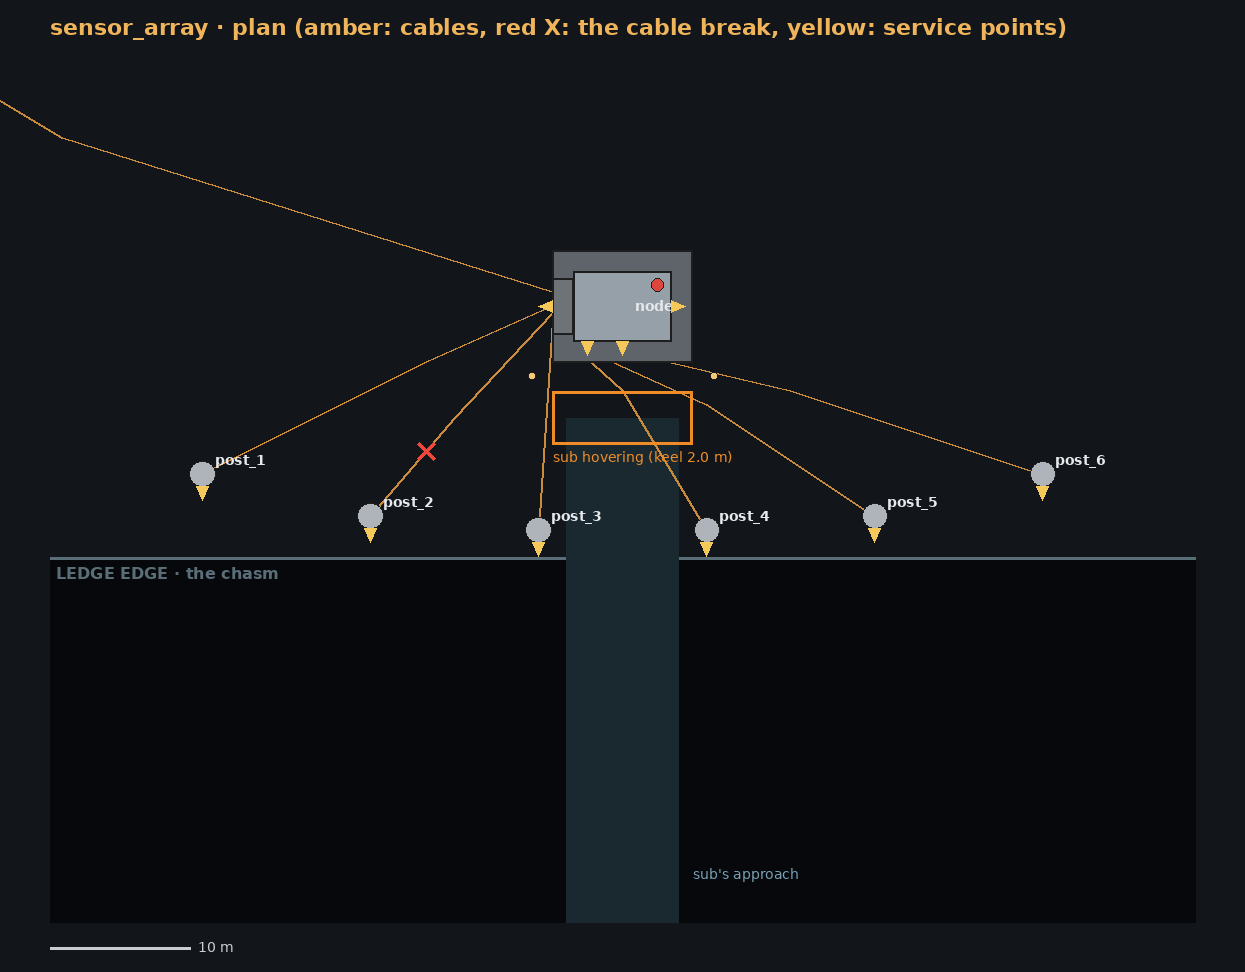
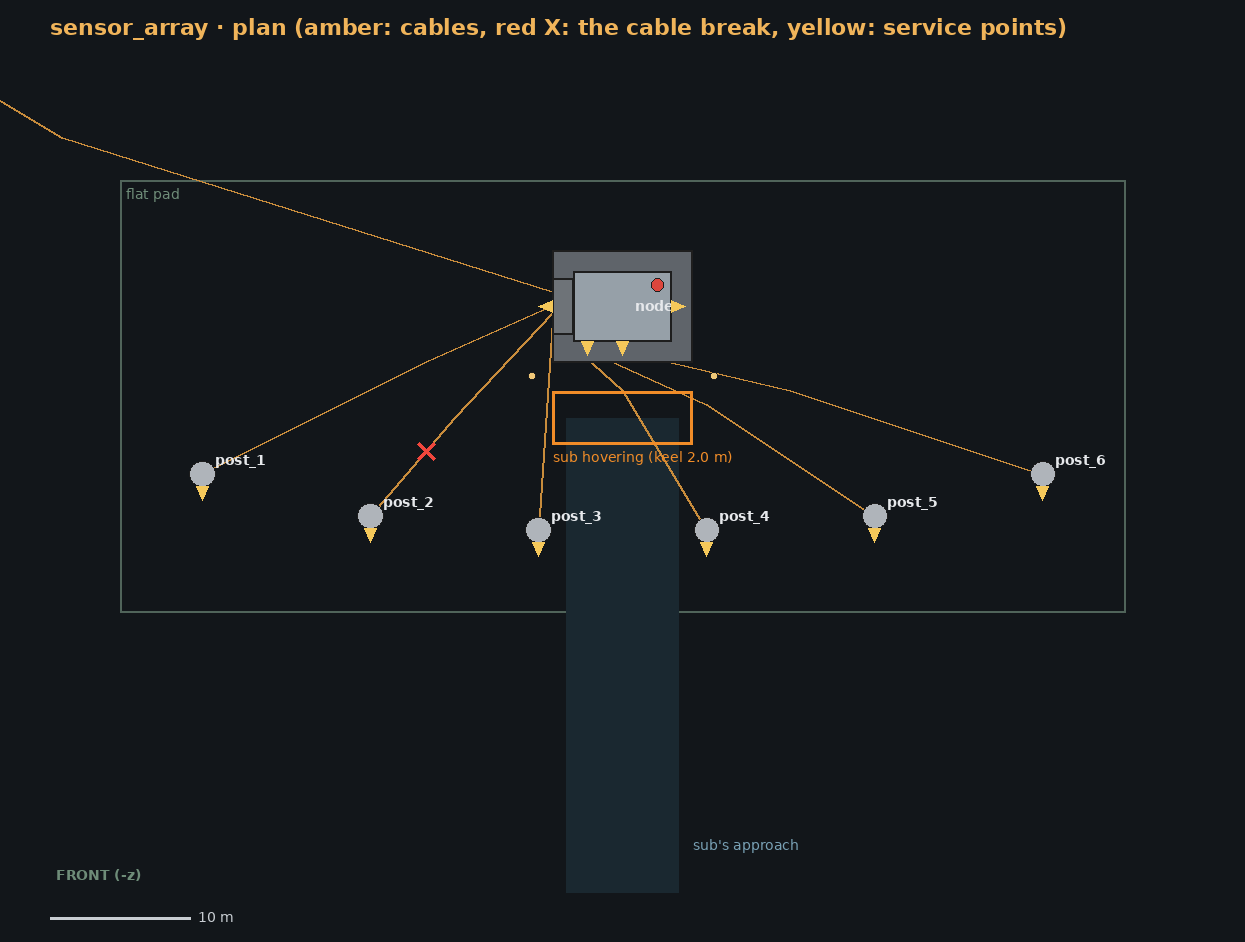
Sensor array: decoupled from the chasm
The layout now has its own frame, centred on the node with its front toward -z,
and the checker reports the flat pad it needs (72 x 31 m) instead of assuming a
ledge; a ledge stays optional for sites drawn at a chasm. A dive places an
unmanned site wherever a pad fits (Tristan). Refs #927

Claude-Session: https://claude.ai/code/session_01AtmEDwwhLDi2UXGBvKDeBg

diff --git a/tools/facility_plan/site.py b/tools/facility_plan/site.py
@@ -12,8 +12,10 @@ works, and the sub's hover point and approach. Writes into out_dir (default: `re
 blockout.py). Exits non-zero when a check fails.
 
 Checks, for play: every service point sits on its element, at a diver's working height, with clear water in front;
-sensor posts are spread as an array; every cable joins its ends and is not too long; the approach corridor from the
-chasm is clear; the sub hovering at its work point keeps water under its keel; everything stands on the shelf.
+sensor posts are spread as an array; every cable joins its ends and is not too long; the approach corridor is clear;
+the sub hovering at its work point keeps water under its keel. A site is not tied to terrain: the report gives the
+flat pad it needs (`site.pad_margin_m` beyond its elements). If the program gives `site.ledge_edge_z` (a site drawn
+at a chasm), everything must stand on the shelf.
 """
 from __future__ import annotations
 
@@ -114,10 +116,16 @@ class Site:
         c = self.c
         lo, hi = c.get("service_height_m", [0.6, 1.8])
         room = c.get("service_room_m", 1.5)
-        edge = self.p["site"].get("ledge_edge_z", 0.0)
-        for e in self.els.values():
-            x0, x1, z0, z1 = e.bounds()
-            self.check(z0 >= edge - TOL or "overhang" in e.tags, f"{e.id} stands on the shelf (z from {z0:.1f})")
+        edge = self.p["site"].get("ledge_edge_z")
+        if edge is not None:
+            for e in self.els.values():
+                x0, x1, z0, z1 = e.bounds()
+                self.check(z0 >= edge - TOL or "overhang" in e.tags, f"{e.id} stands on the shelf (z from {z0:.1f})")
+        b = [e.bounds() for e in self.els.values()]
+        mg = self.p["site"].get("pad_margin_m", 5.0)
+        self.pad = (min(v[0] for v in b) - mg, max(v[1] for v in b) + mg, min(v[2] for v in b) - mg, max(v[3] for v in b) + mg)
+        self.check(True, f"needs a flat pad {self.pad[1] - self.pad[0]:.0f} x {self.pad[3] - self.pad[2]:.0f} m "
+                         f"(x {self.pad[0]:.0f}..{self.pad[1]:.0f}, z {self.pad[2]:.0f}..{self.pad[3]:.0f}), front toward -z")
         for s in self.p.get("service_points", []):
             el = self.els[s["element"]]
             at = tuple(s["at"])
@@ -192,17 +200,22 @@ class Site:
     def draw_plan(self, out: Path) -> None:
         pts = [v for e in self.els.values() for v in (e.bounds()[0:2])], [v for e in self.els.values() for v in e.bounds()[2:4]]
         xs = pts[0] + [p[0] for cb in self.p["cables"] for p in cb["path"] if cb["to"] != "offsite"]
-        zs = pts[1] + [p[1] for cb in self.p["cables"] for p in cb["path"] if cb["to"] != "offsite"] + [-20.0]
+        zs = pts[1] + [p[1] for cb in self.p["cables"] for p in cb["path"] if cb["to"] != "offsite"] + [self.pad[2] - 14]
         x0, x1, z0, z1 = min(xs) - 10, max(xs) + 10, min(zs) - 6, max(zs) + 10
         s, m = 14.0, 50
         W, H = int((x1 - x0) * s) + 2 * m, int((z1 - z0) * s) + 2 * m + 60
         img = Image.new("RGB", (W, H), (18, 22, 26))
         d = ImageDraw.Draw(img)
         P = lambda x, z: (m + (x - x0) * s, 60 + m + (z1 - z) * s)
-        edge = self.p["site"].get("ledge_edge_z", 0.0)
-        d.rectangle([P(x0, edge), P(x1, z0)], fill=(6, 8, 12))
-        d.line([P(x0, edge), P(x1, edge)], fill=(90, 110, 120), width=3)
-        d.text((P(x0, edge)[0] + 6, P(x0, edge)[1] + 6), "LEDGE EDGE · the chasm", fill=(90, 110, 120), font=font(16, True))
+        edge = self.p["site"].get("ledge_edge_z")
+        if edge is not None:
+            d.rectangle([P(x0, edge), P(x1, z0)], fill=(6, 8, 12))
+            d.line([P(x0, edge), P(x1, edge)], fill=(90, 110, 120), width=3)
+            d.text((P(x0, edge)[0] + 6, P(x0, edge)[1] + 6), "LEDGE EDGE · the chasm", fill=(90, 110, 120), font=font(16, True))
+        px0, px1, pz0, pz1 = self.pad
+        d.rectangle([P(px0, pz1), P(px1, pz0)], outline=(80, 100, 90), width=2)
+        d.text((P(px0, pz1)[0] + 6, P(px0, pz1)[1] + 6), "flat pad", fill=(110, 140, 120), font=font(14))
+        d.text((P(x0, z0)[0] + 6, P(x0, z0)[1] - 26), "FRONT (-z)", fill=(110, 140, 120), font=font(14, True))
         ap = self.p.get("approach")
         if ap:
             half = self.c.get("approach_width_m", 8.0) / 2
@@ -260,7 +273,7 @@ class Site:
         hb = self.hover_box()
         sub = self.p["site"]["sub"]
         d.rounded_rectangle([P(hb[0], self.keel_y + sub["height_m"]), P(hb[1], self.keel_y)], radius=10, outline=(240, 140, 40), width=3)
-        d.text((m, 10), f"{self.p.get('name', 'site')} · elevation from the chasm", fill=(240, 180, 90), font=font(22, True))
+        d.text((m, 10), f"{self.p.get('name', 'site')} · elevation from the front", fill=(240, 180, 90), font=font(22, True))
         img.save(out)
 
     def export(self, out: Path) -> None:

diff --git a/Silent Water — Design Doc.md b/Silent Water — Design Doc.md
@@ -475,7 +475,7 @@ The floorplan (#853) is laid out for play first: routes, loops and dead ends, do
 
 ### Unmanned infrastructure
 
-Draft (#927). Machines people visit, not places people live: the commonest sites in a dive, and the loneliest. No galley, no bunks, no air inside by default. Everything is built for the crews who come to maintain it: service hatches and panels at a diver's working height, grab rails, mooring points for the sub, work lights, clear labels. Power comes down a cable from a larger station or from a small sealed source on site, so "the power's out" means a cut line to follow or a dead cell to swap. Comms go by cable to a surface buoy, or through a nearby station. The look is the style board's concrete and ribs at a smaller scale: single heavy monoliths, plinths and ribbed housings, little glass, amber running lights and a red beacon, a lone object in the dark. Some sites (the automated lab, the drone bay) may have a small dry interior one or two crew can enter.
+Draft (#927). Machines people visit, not places people live: the commonest sites in a dive, and the loneliest. No galley, no bunks, no air inside by default. Everything is built for the crews who come to maintain it: service hatches and panels at a diver's working height, grab rails, mooring points for the sub, work lights, clear labels. Power comes down a cable from a larger station or from a small sealed source on site, so "the power's out" means a cut line to follow or a dead cell to swap. Comms go by cable to a surface buoy, or through a nearby station. The look is the style board's concrete and ribs at a smaller scale: single heavy monoliths, plinths and ribbed housings, little glass, amber running lights and a red beacon, a lone object in the dark. Some sites (the automated lab, the drone bay) may have a small dry interior one or two crew can enter. Sites are not tied to particular terrain: each is laid out in its own frame and declares the flat pad it needs, and a dive places it wherever one fits, at the edge of a chasm or not (Tristan, 2026-11-28). The sensor array's layout is `assets/models/facilities/sensor_array/program.yaml`, checked and drawn by `tools/facility_plan/site.py`.
 
 | Site | What it is for | The crew's work there | Restored, it helps by |
 | --- | --- | --- | --- |
